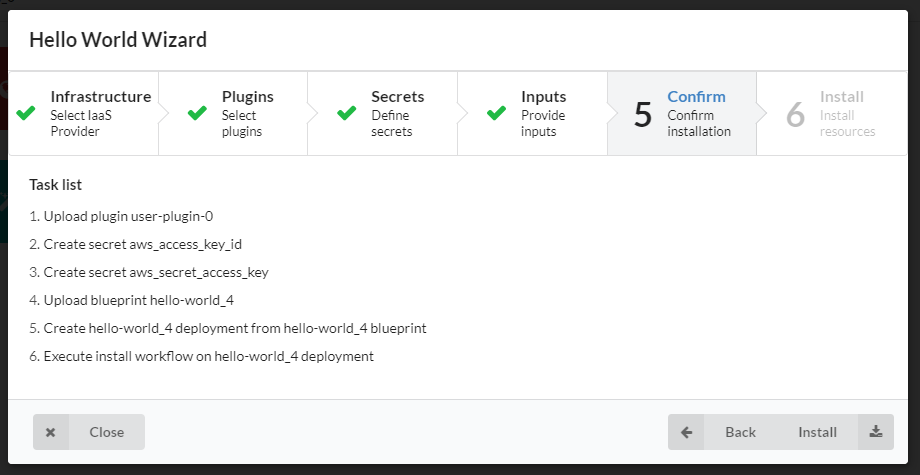
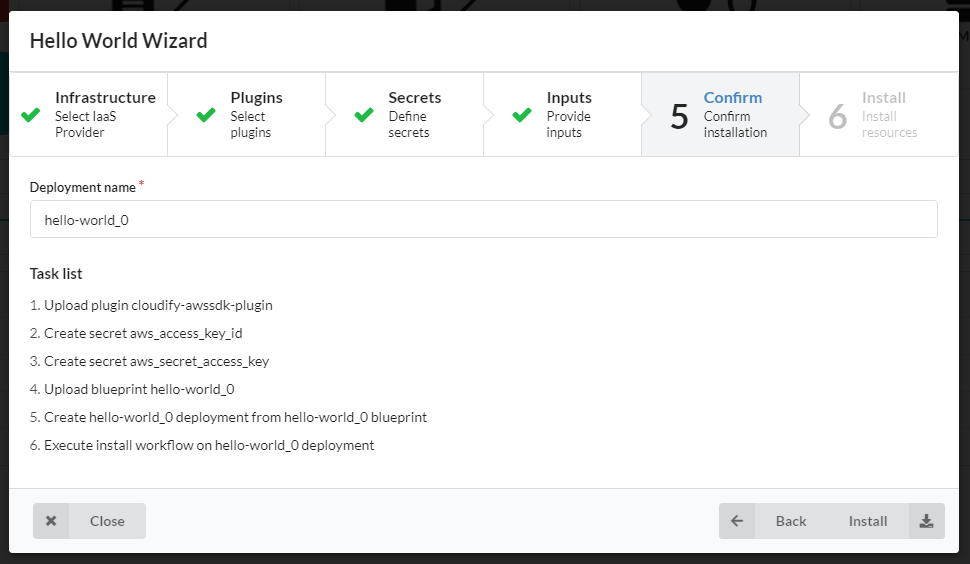
Updated documentation for CY-645 - Implement minor improvements to Deployment Wizard: - CY-716 - Add support for inputs YAML file in Inputs step - CY-717 - Allow specifying a Deployment ID - CY-721 - Redesign automatic redirection process in Install step

diff --git a/content/working_with/console/widgets/deploymentWizardButtons.md b/content/working_with/console/widgets/deploymentWizardButtons.md
@@ -51,23 +51,25 @@ In this step you see list of blueprint inputs.
 
 ![wizard_inputs_step]( /images/ui/widgets/deployment_wizard_buttons_hw_wizard_inputs.png )
 
-If input has default value you won't need to provide it. You need to set values only for inputs which does not have default values.
+If input has default value you won't need to provide it. You need to set values only for inputs which does not have default values. You can use `Load values` button to fill in the values from YAML file.
 
 Hover over icon in `Action` column to see details and check if you need to provide value for the input. Click `Back` or `Next` button to navigate between steps.
 
 ##### Confirm step 
 In this step you see list of task to be performed during installation process. 
 
+You can also modify deployment name, which is automatically set using blueprint name and index suffix. 
+
 ![wizard_confirm_step]( /images/ui/widgets/deployment_wizard_buttons_hw_wizard_confirm.png )
 
-Click `Install` to start resources installation procedure or click `Back` button to go to the previous steps.
+Click `Install` to start resources installation procedure or click `Back` button to go to the previous steps. Deployment name availability is verified upon clicking on `Install` button.
 
 ##### Install step 
 In this step you see list of ongoing tasks and its status. 
 
 ![wizard_install_step]( /images/ui/widgets/deployment_wizard_buttons_hw_wizard_install.png )
 
-When deployment installation starts successfuly you can perform additional actions - install another blueprint or go to deployment page.
+When deployment installation starts successfully you can perform additional actions - install another blueprint or go to deployment page.
 
 When something go wrong you will be able to see error message and you start over the procedure.
 
